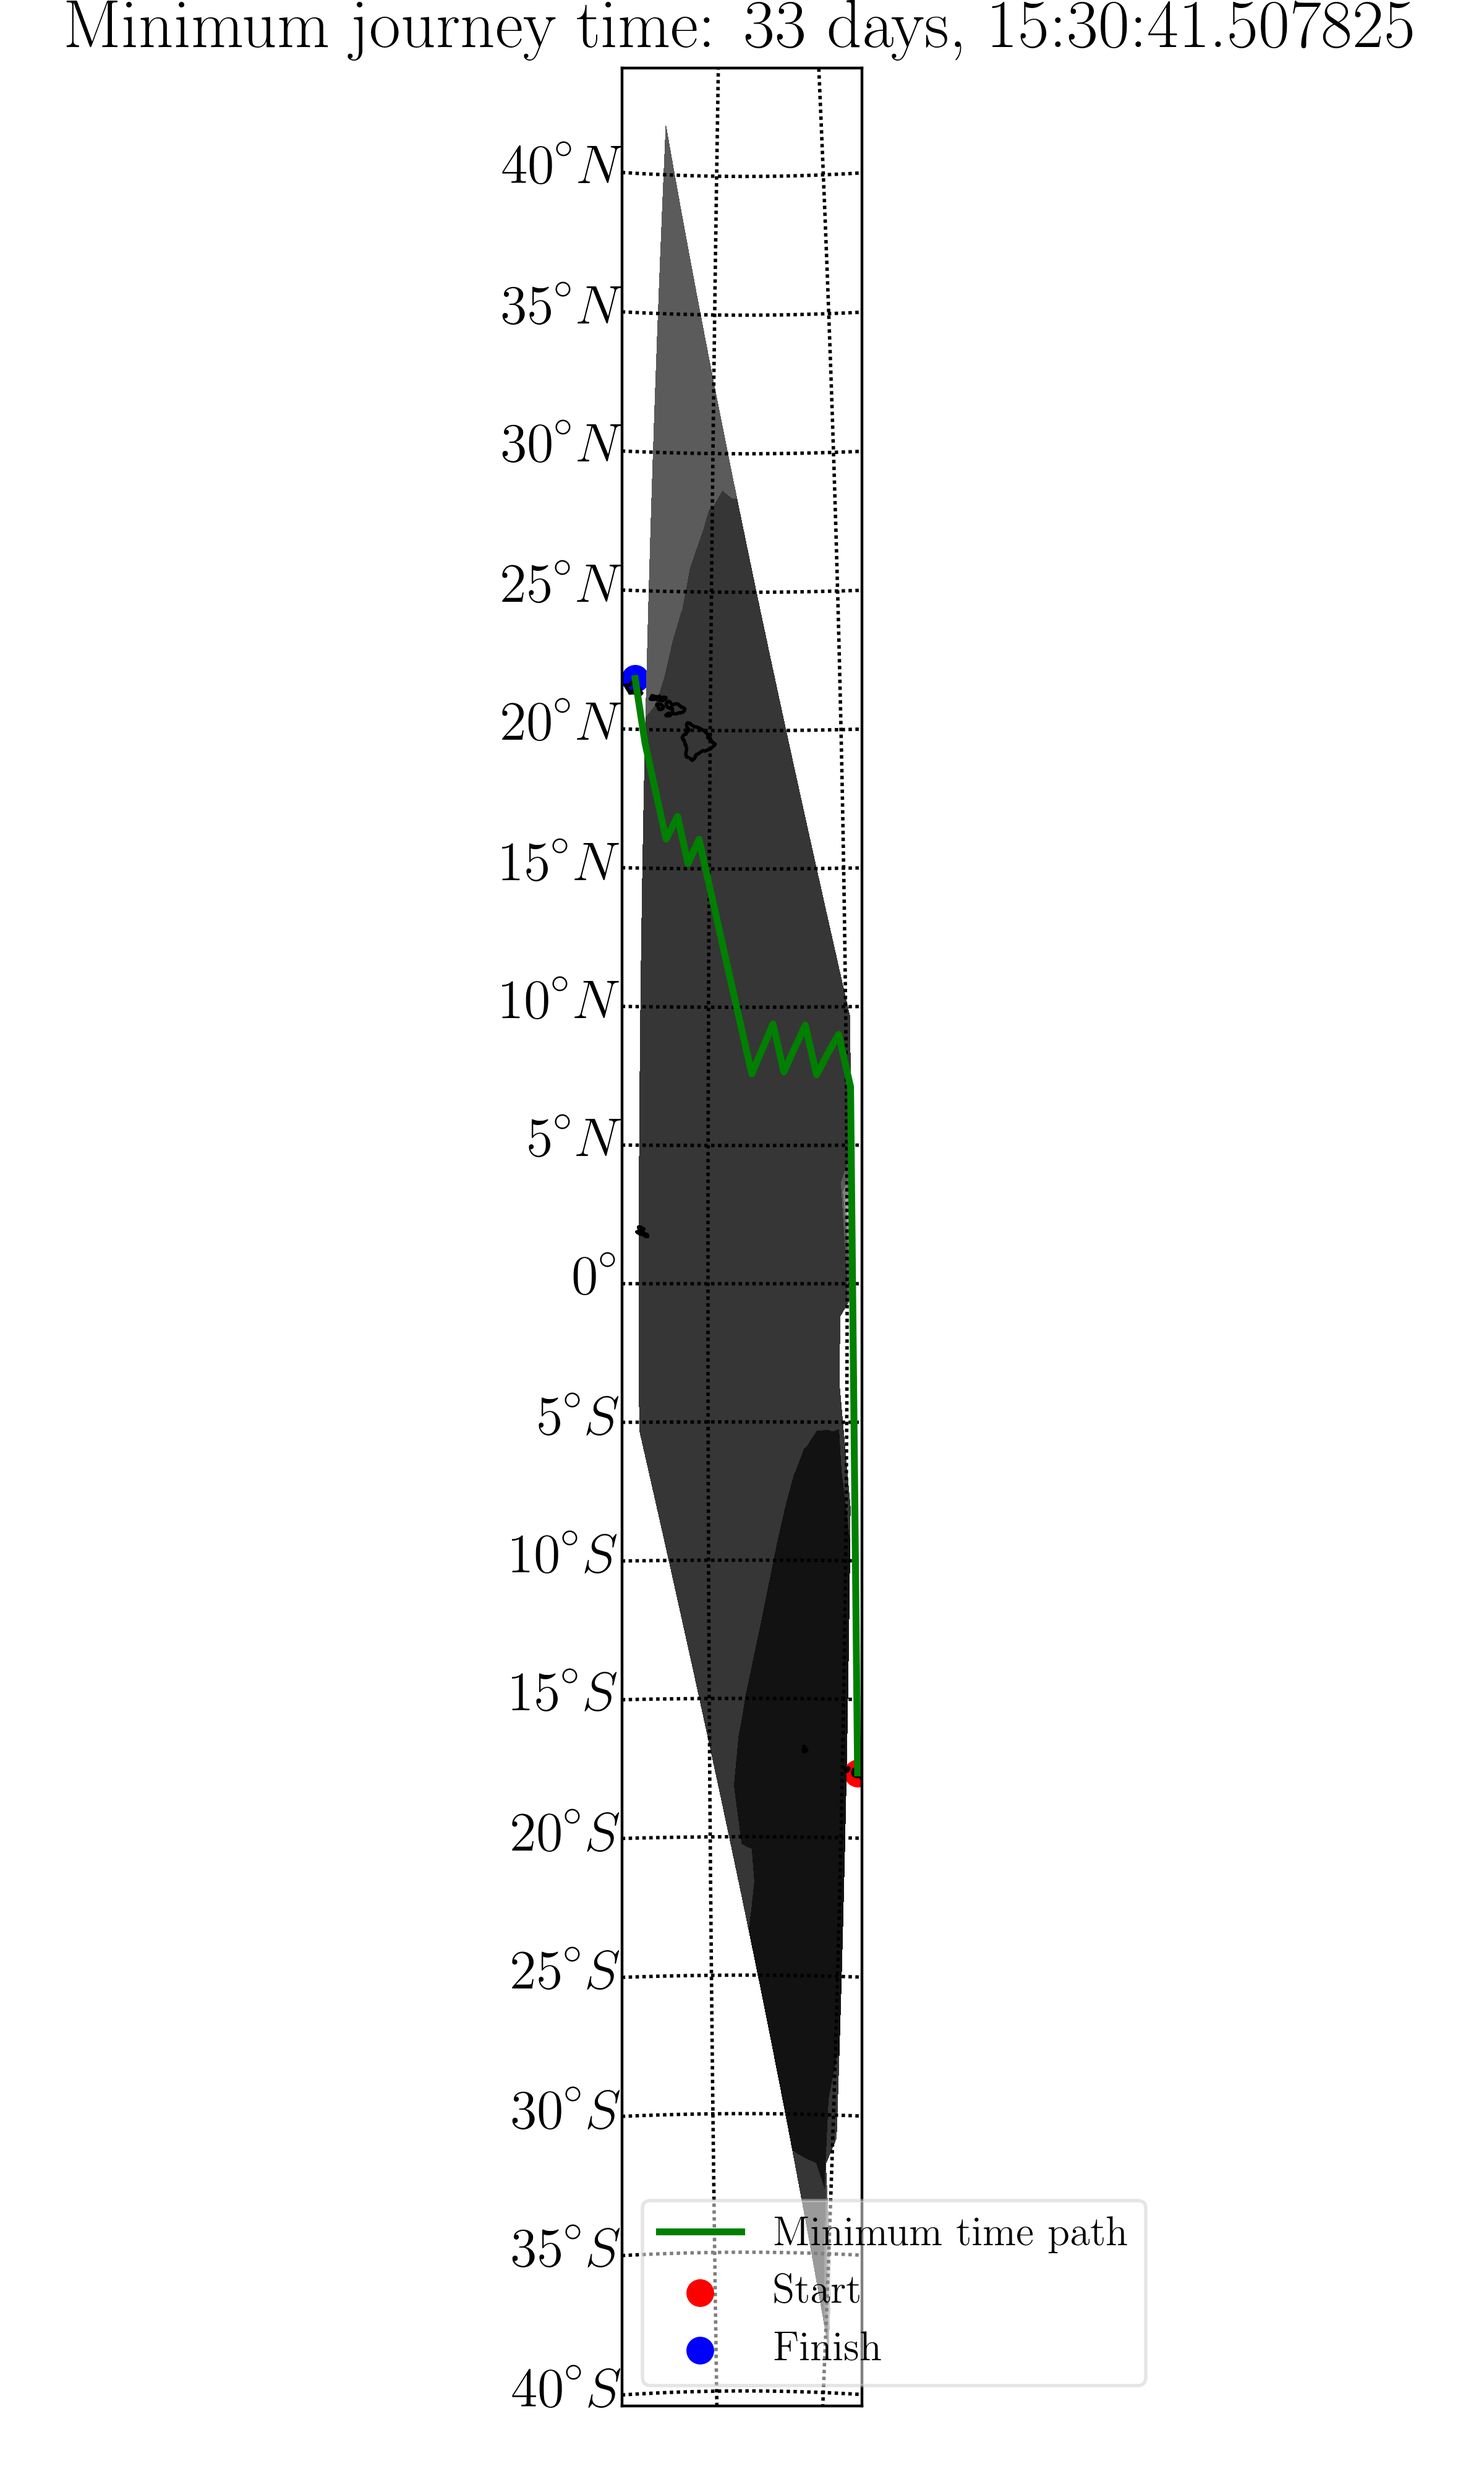
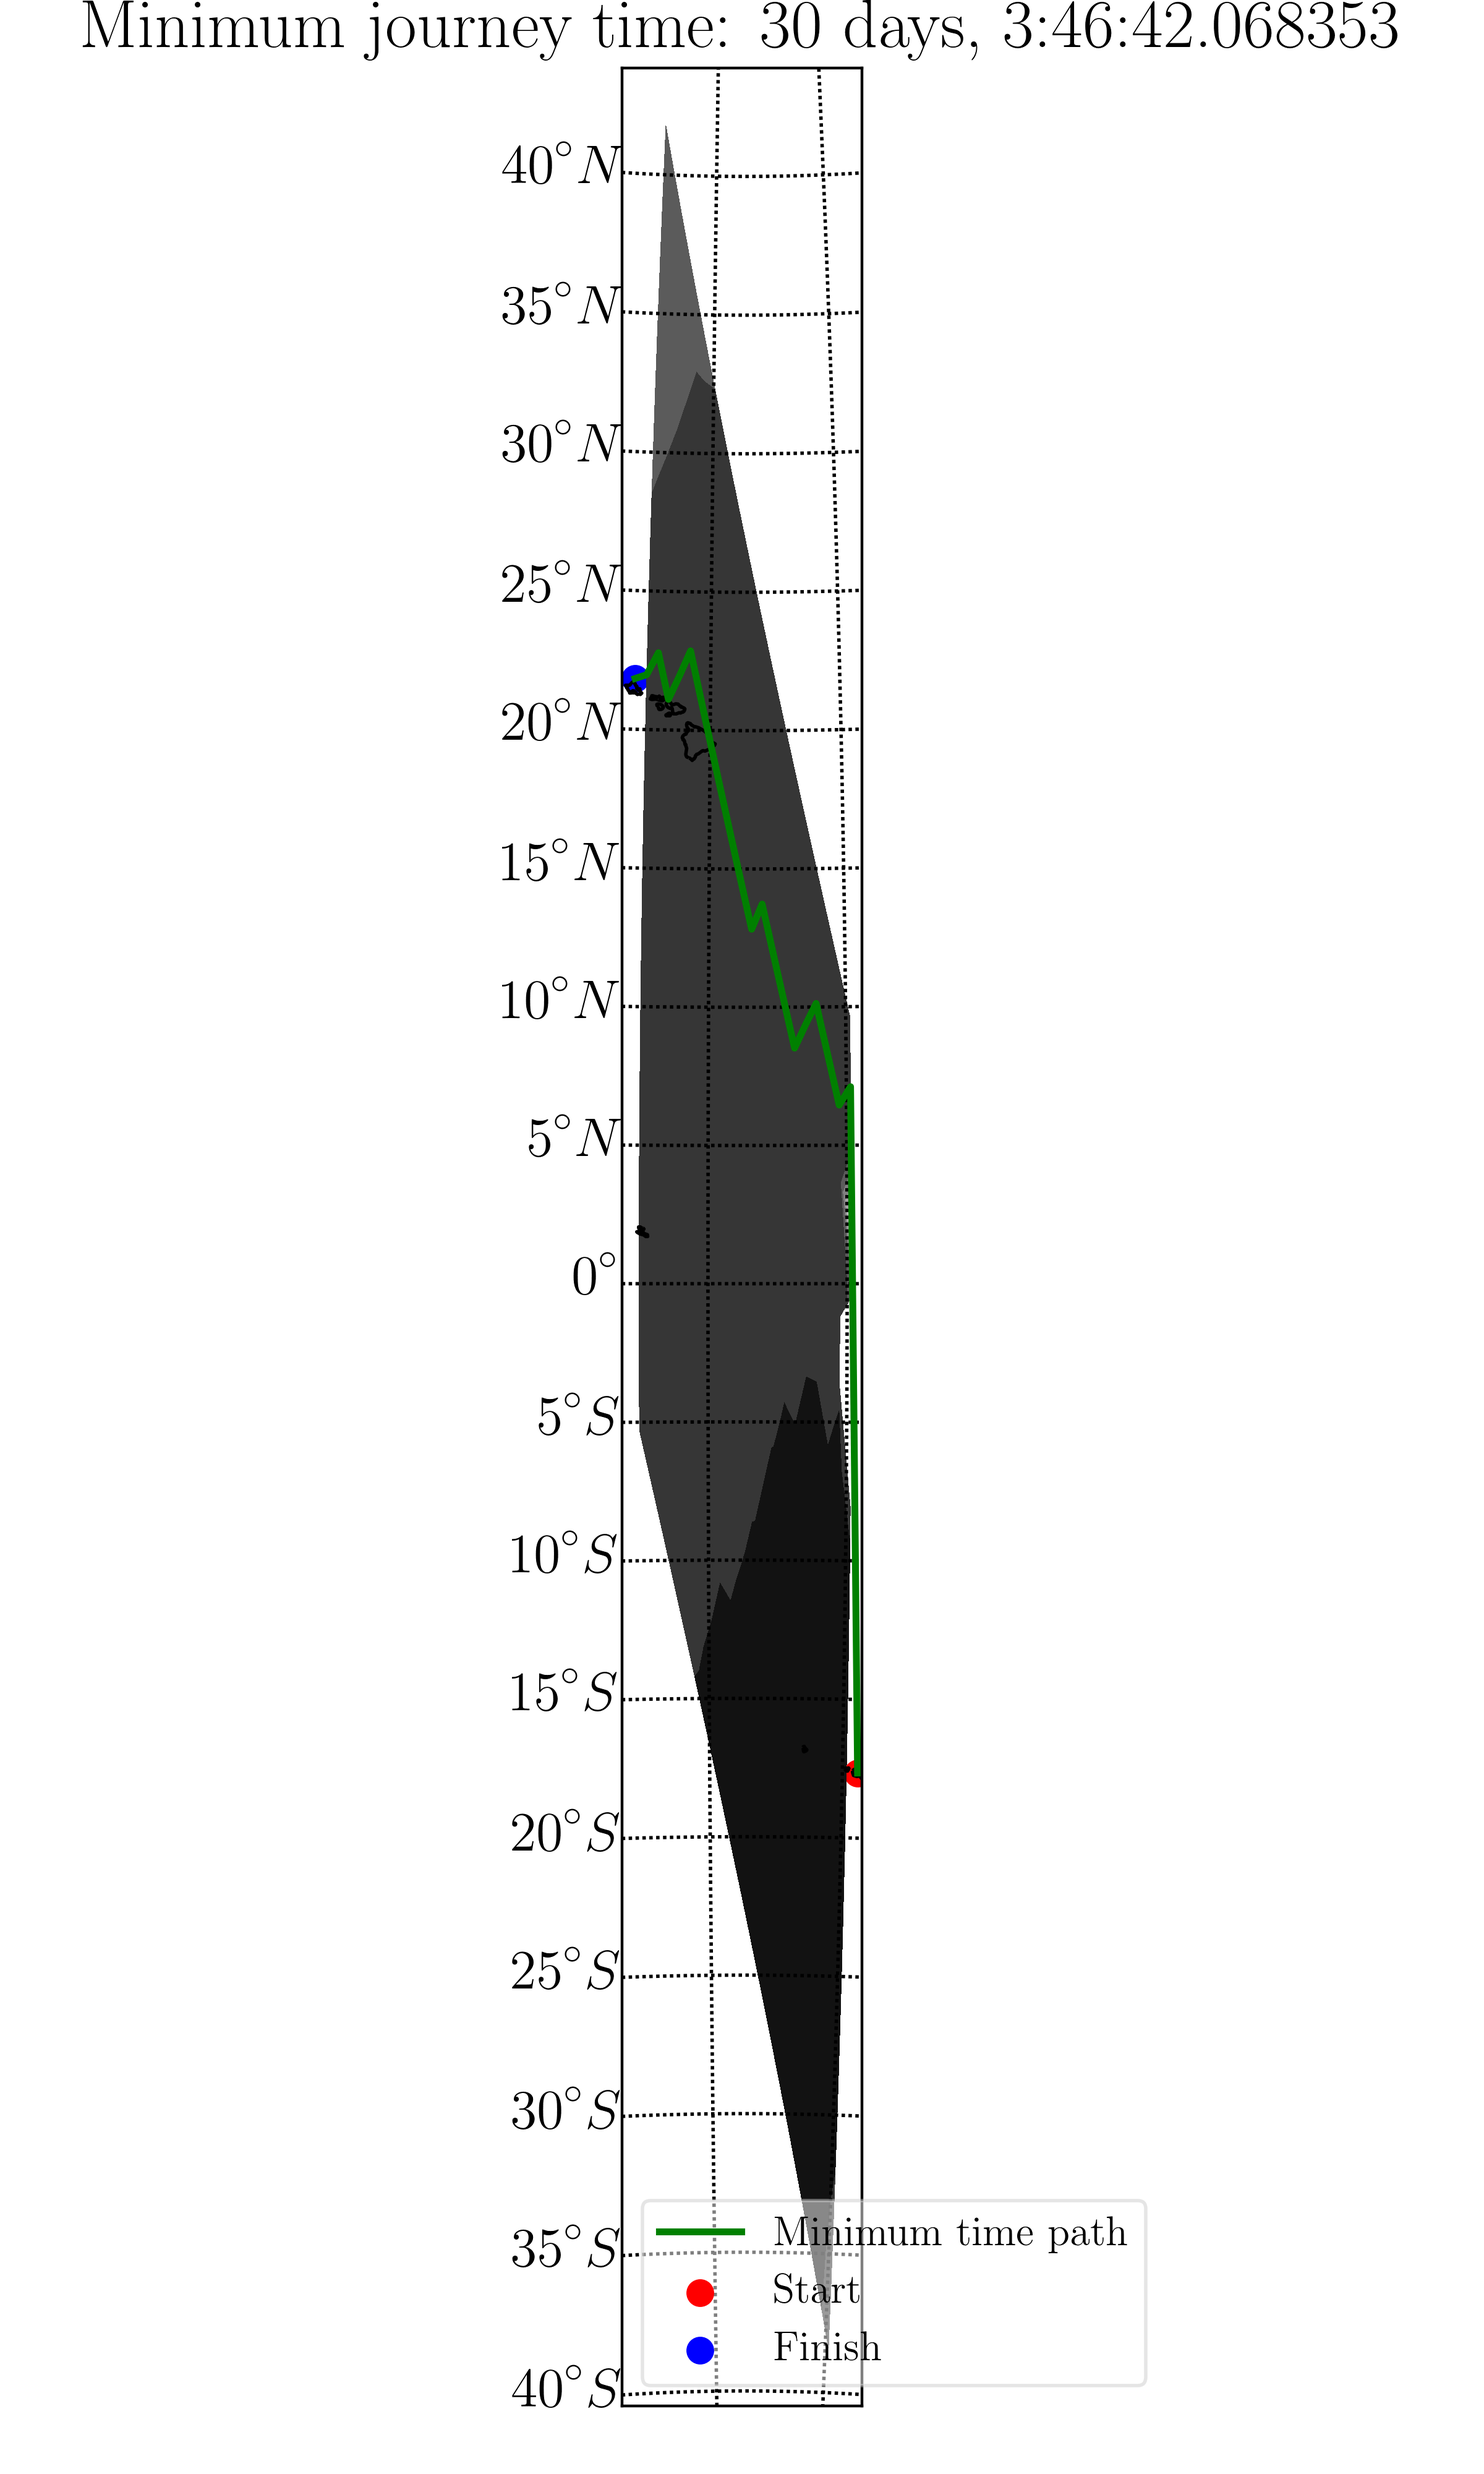
working reduced time weather interpolation

diff --git a/sail_route/sail_routing.py b/sail_route/sail_routing.py
@@ -20,20 +20,21 @@ from sail_route.time_func import timefunc
 from sail_route.route.grid_locations import gen_indx
 from sail_route.route.solve_route import shortest_path, get_locs
 from sail_route.performance.cost_function import cost_function
+from sail_route.weather.load_weather import process_wind
 from sail_route.weather.weather_assistance import return_domain, \
                                        setup_interpolator
 warnings.filterwarnings("ignore")
 
 
-# def recompile_nb_code():
-#     this_module = sys.modules[__name__]
-#     module_members = inspect.getmembers(this_module)
-#
-#     for member_name, member in module_members:
-#         if hasattr(member, 'recompile') and hasattr(member, 'inspect_llvm'):
-#             member.recompile()
-#
-# recompile_nb_code()
+def recompile_nb_code():
+    this_module = sys.modules[__name__]
+    module_members = inspect.getmembers(this_module)
+
+    for member_name, member in module_members:
+        if hasattr(member, 'recompile') and hasattr(member, 'inspect_llvm'):
+            member.recompile()
+
+recompile_nb_code()
 
 
 plt.rcParams['savefig.dpi'] = 400
@@ -80,23 +81,21 @@ def min_time_calculate(route, time, craft, x, y,
     """Calculate the earliest arrival time across co-ordinates."""
     earl_time = np.full_like(x, np.inf)
     indxs, pindxs = gen_indx(x)
-    tws_interp = setup_interpolator(tws)
-    twd_interp = setup_interpolator(twd)
     wd_interp = setup_interpolator(wd)
     wh_interp = setup_interpolator(wh)
     wp_interp = setup_interpolator(wp)
     end_node = 0
     journey_time = 10**10
     for i in range(route.n_width):
-        i_tws = tws_interp([x[0, i], y[0, i], time]).data
-        i_twd = twd_interp([x[0, i], y[0, i], time]).data
+        wind_speed = tws.sel(lon_b=x[0, i], lat_b=y[0, i], time=time).data
+        wind_dir = twd.sel(lon_b=x[0, i], lat_b=y[0, i], time=time).data
         i_wd = wd_interp([x[0, i], y[0, i], time]).data
         i_wh = wh_interp([x[0, i], y[0, i], time]).data
         i_wp = wp_interp([x[0, i], y[0, i], time]).data
         travel_time = cost_function(route.start.long,
                                     route.start.lat,
                                     x[0, i], y[0, i],
-                                    i_tws, i_twd,
+                                    wind_speed, wind_dir,
                                     i_wd, i_wh, i_wp,
                                     craft)
         if (travel_time == np.inf) | (land[0, i] is True):
@@ -110,11 +109,13 @@ def min_time_calculate(route, time, craft, x, y,
                 pass
             else:
                 utime = datetime.fromtimestamp(earl_time[i, j])
-                i_wd = wd_interp([x[i, j], y[i, j], time]).data
-                i_wh = wh_interp([x[i, j], y[i, j], time]).data
-                i_wp = wp_interp([x[i, j], y[i, j], time]).data
-                i_tws = tws_interp([x[i, j], y[i, j], time]).data
-                i_twd = twd_interp([x[i, j], y[i, j], time]).data
+                i_wd = wd_interp([x[i, j], y[i, j], utime]).data
+                i_wh = wh_interp([x[i, j], y[i, j], utime]).data
+                i_wp = wp_interp([x[i, j], y[i, j], utime]).data
+                i_tws = tws.sel(lon_b=x[i, j], lat_b=y[i, j],
+                                time=utime, method='nearest').data
+                i_twd = twd.sel(lon_b=x[i, j], lat_b=y[i, j],
+                                time=utime, method='nearest').data
                 lifetime = utime - time
                 for k in range(route.n_width):
                         if land[i+1, k] is True:
@@ -142,10 +143,10 @@ def min_time_calculate(route, time, craft, x, y,
             pass
         else:
             time = datetime.fromtimestamp(earl_time[-1, i])
-            i_tws = tws_interp([x[-1, i],
-                               y[-1, i], time]).data
-            i_twd = twd_interp([x[-1, i],
-                               y[-1, i], time]).data
+            i_tws = tws.sel(lon_b=x[-1, j], lat_b=y[-1, j],
+                            time=utime, method='nearest').data
+            i_twd = twd.sel(lon_b=x[-1, j], lat_b=y[-1, j],
+                            time=utime, method='nearest').data
             travel_time = cost_function(x[-1, i],
                                         y[-1, i],
                                         route.finish.long,

diff --git a/sail_route/weather/load_weather.py b/sail_route/weather/load_weather.py
@@ -1,0 +1,87 @@
+"""Load weather files.
+
+Reduce the amount of interpolating associated with large weather files.
+
+Thomas Dickson
+thomas.dickson@soton.ac.uk
+25/05/2018
+"""
+
+import os
+import sys
+import numpy as np
+import xarray as xr
+import xesmf as xe
+
+
+def look_in_netcdf(path):
+    """Load netcdf file and return xrray."""
+    with xr.open_dataset(path) as ds:
+        print(ds.keys())
+
+
+def load_dataset(path_nc, var):
+    """Load netcdf file and return a specific variable."""
+    with xr.open_dataset(path_nc) as ds:
+        ds.coords['lat'] = ('latitude', ds['latitude'].values)
+        ds.coords['lon'] = ('longitude', ds['longitude'].values)
+        ds.swap_dims({'longitude': 'lon', 'latitude': 'lat'})
+        return ds[var]
+
+
+def regrid_data(ds, longs, lats):
+    """Regrid dataset to new longs and lats."""
+    ds_out = xr.Dataset({'lat': (['lat_b'], lats),
+                         'lon': (['lon_b'], longs), })
+    regridder = xe.Regridder(ds, ds_out, 'bilinear', reuse_weights=True)
+    ds0 = regridder(ds)
+    ds0.coords['lat_b'] = ('lat_b', ds0['lat'].values)
+    ds0.coords['lon_b'] = ('lon_b', ds0['lon'].values)
+    return ds0
+
+
+def process_wind(path_nc, longs, lats):
+    """Return wind speed and direction data regridded to the
+    location of each node."""
+    ds_u10 = load_dataset(path_nc, 'u10')
+    regrid_ds_u10 = regrid_data(ds_u10, longs[:, 0], lats[0, :])
+    ds_v10 = load_dataset(path_nc, 'v10')
+    regrid_ds_v10 = regrid_data(ds_v10, longs[:, 0], lats[0, :])
+    ws = 1.943844 * (regrid_ds_u10**2 + regrid_ds_v10**2)**0.5
+    wind_dir = np.rad2deg(np.arctan2(regrid_ds_u10, regrid_ds_v10)) + 180.0
+    return ws, wind_dir
+
+
+if __name__ == '__main__':
+    sys.path.append(os.path.abspath("/home/thomas/Documents/pyroute/sail_route/route"))
+    from grid_locations import return_co_ords
+    def haversine(lon1, lat1, lon2, lat2):
+        """Calculate the great circle distance between two points.
+
+        Return the value in km."""
+        lon1, lat1, lon2, lat2 = np.radians(np.array([lon1, lat1, lon2, lat2]))
+        dlon = lon2 - lon1
+        dlat = lat2 - lat1
+        a = np.sin((dlat)/2)**2 + np.cos(lat1) * np.cos(lat2) * \
+            np.sin((dlon)/2)**2
+        dist = 6371 * 2 * np.arcsin(np.sqrt(a)) * 0.5399565
+        bearing = np.rad2deg(np.arctan2(dlat, dlon))
+        return dist, bearing
+
+    start_long = -149.426
+    start_lat = -17.651
+    finish_long = -157.92
+    finish_lat = 21.83
+    n_ranks = 10
+    n_nodes = 10
+    dist, bearing = haversine(start_long, start_lat, finish_long,
+                              finish_lat)
+    node_distance = 2000*dist/n_nodes
+    longs, lats, land = return_co_ords(start_long, finish_long,
+                                       start_lat, finish_lat,
+                                       n_ranks, n_nodes, dist)
+    path = "/home/thomas/Documents/pyroute/analysis/poly_data/data_dir/finney_wind_forecast.nc"
+    ws, wd = process_wind(path, longs, lats)
+    # print(ws[[0], [0]])
+    ind = xr.DataArray([[0], [0]], dims=['lon', 'lat'])
+    print(ws.sel(lon_b=-150.2, lat_b=-14.19))

diff --git a/analysis/canoe_voyaging.py b/analysis/canoe_voyaging.py
@@ -10,19 +10,21 @@ from datetime import datetime
 from canoe_voyaging_utils import datetime_range, load_tongiaki_perf, \
                                 tong_uncertain
 from sail_route.weather.weather_assistance import return_domain
+from sail_route.performance.bbn import gen_env_model
+from sail_route.weather.load_weather import process_wind
 from sail_route.sail_routing import Location, Route, \
                                    min_time_calculate, plot_mt_route
 from sail_route.performance.cost_function import haversine
 from sail_route.route.grid_locations import return_co_ords
 from grid_error import calc_h
-from pgmpy import *
 
 
 def run_simulation_over_days():
     """Run routing simulations between tahiti and marquesas."""
     tahiti = Location(-149.426, -17.651)
     hawaii = Location(-157.92, 21.83)
-    craft = tong_uncertain(1.0, 1.0)
+    fm = gen_env_model()
+    craft = tong_uncertain(1.0, 1.0, fm)
     n_nodes = 20
     n_width = n_nodes
     print("Nodes in rank: ", n_nodes)
@@ -50,6 +52,7 @@ def run_simulation_over_days():
                                     r.start.lat, r.finish.lat,
                                     r.n_ranks, r.n_width, r.d_node)
         tws, twd, wd, wh, wp = return_domain(wind_fname, waves_fname)
+        tws, twd = process_wind(wind_fname, x, y)
         jt, et, x_r, y_r = min_time_calculate(r, t, craft,
                                               x, y, land,
                                               tws, twd, wd, wh, wp)
